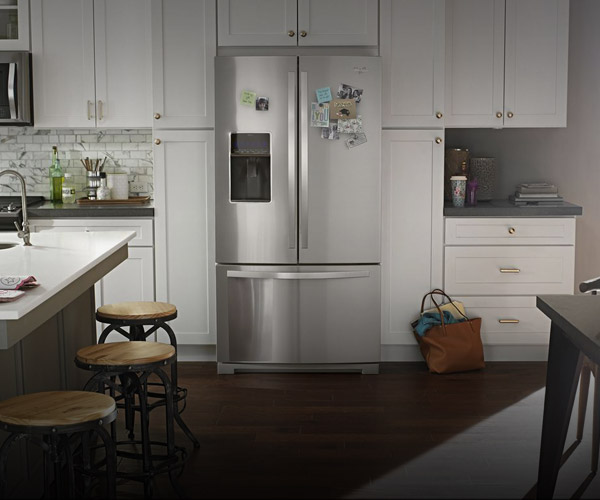
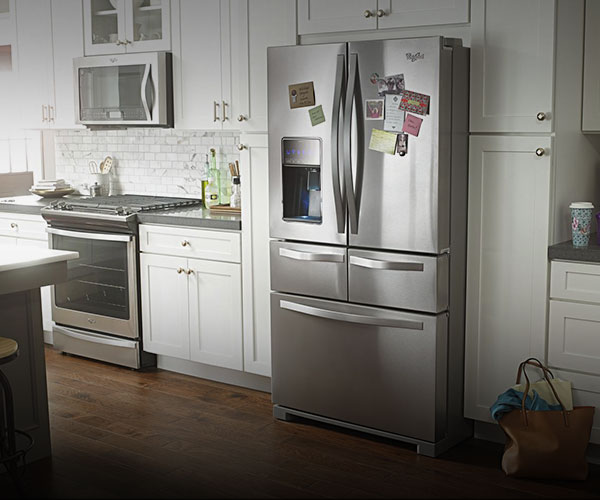
Updated assets for 300x250 and copy

diff --git a/app/templates/js/animations/300x250.js b/app/templates/js/animations/300x250.js
@@ -1,7 +1,6 @@
 $(function() {
-    mainBannerCopy[1] = "Care comes in<br/>all shapes and sizes";
-    mainBannerCopy[2] = "Flexible storage, so you can<br/>fit everything, big or small";
-    endFrameCopy = "See our fully<br/>organized French<br/>Door Refrigerators";
+    mainBannerCopy[1] = "Care is<br/>versatile";
+    mainBannerCopy[2] = "One drawer,<br/>five unique temperatures";
 
     var back01 = $("#back01");
     var back02 = $("#back02");

diff --git a/app/templates/js/animations/728x90.js b/app/templates/js/animations/728x90.js
@@ -1,6 +1,6 @@
 $(function() {
-    mainBannerCopy[1] = "Care comes in<br/>all shapes and sizes";
-    endFrameCopy = "See our fully<br/>organized French Door Refrigerators";
+    // mainBannerCopy[1] = "Care comes in<br/>all shapes and sizes";
+    // endFrameCopy = "See our fully<br/>organized French Door Refrigerators";
 
     var back01 = $("#back01");
     var back02 = $("#back02");

diff --git a/app/templates/js/en/copy.js b/app/templates/js/en/copy.js
@@ -1,6 +1,6 @@
 var mainBannerCopy = [
 	"Care",
-	"Care comes in all shapes and sizes",
-	"Flexible storage, so you can fit everything, big or small"
+	"Care is versatile",
+	"One drawer, five unique temperatures"
 ];
-var endFrameCopy = "See our fully organized French Door Refrigerators";
+var endFrameCopy = "Get to know all the features on our Double Drawer Refrigerator";

diff --git a/app/templates/js/animations/160x600.js b/app/templates/js/animations/160x600.js
@@ -1,5 +1,5 @@
 $(function() {
-    mainBannerCopy[1] = "Care comes<br/>in all shapes<br/>and sizes";
+    // mainBannerCopy[1] = "Care comes<br/>in all shapes<br/>and sizes";
 
     var back01 = $("#back01");
     var back02 = $("#back02");
